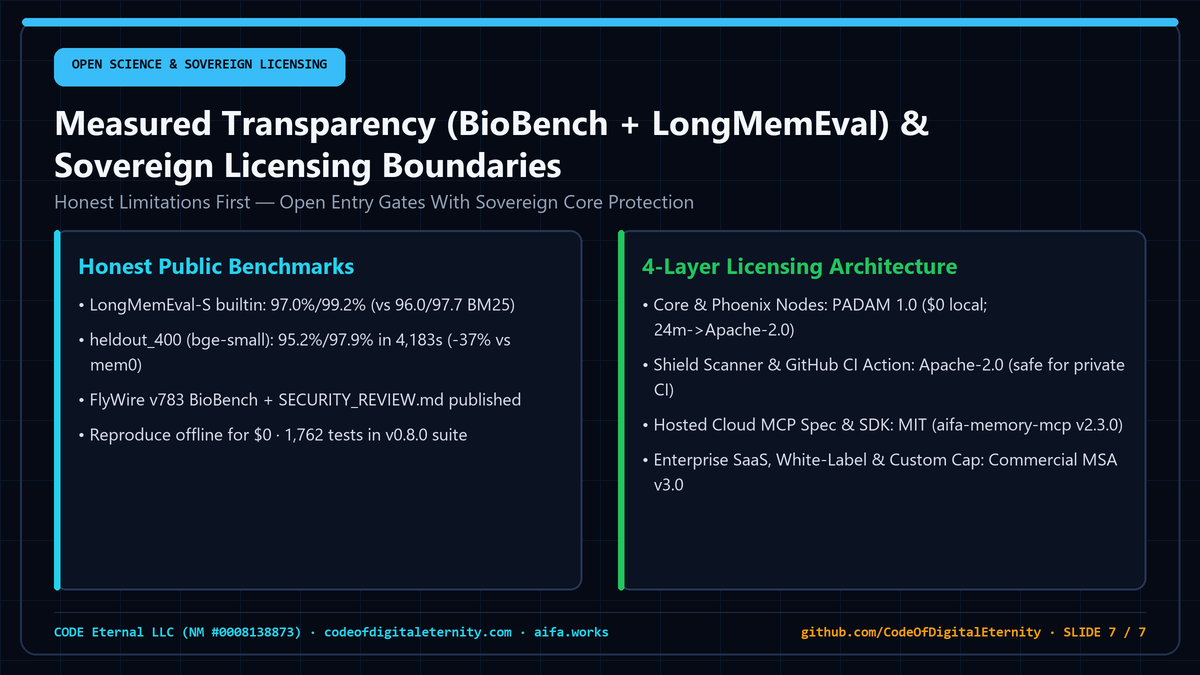
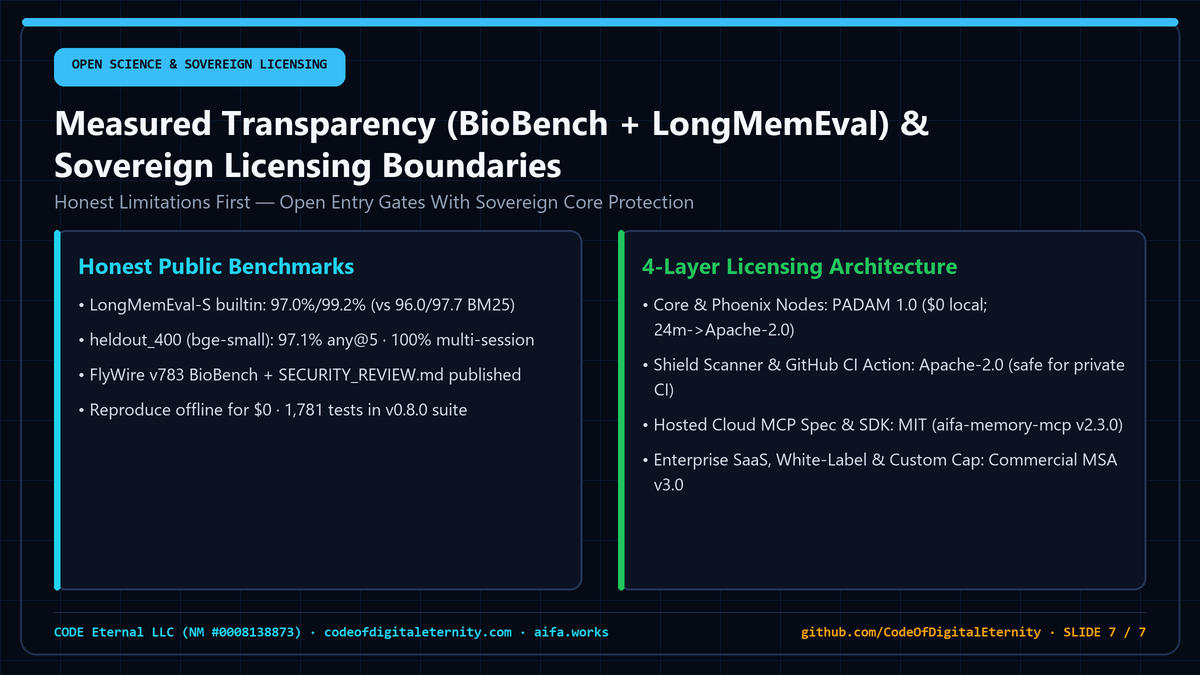
bench(lme,slides): record completed 400-question neural run (97.07% any@5, 100% multi-session) & 1,781 tests

Changed region(s): [[0.0617, 0.4978, 0.4317, 0.6533]]

diff --git a/README.md b/README.md
@@ -33,7 +33,7 @@
 - API keys and passwords are masked before they reach the disk;
 - what comes back is fenced as data, and a forgotten record is wiped from the file; if it was sent to Arweave, destroying its own key leaves only unreadable ciphertext there.
 
-Measured, not claimed: seven red-team rounds with their results published (the sets of rounds 1–3 in full; rounds 4–7 were hashed before each run, their sets will follow after a read for real names), LongMemEval-S retrieval 97.0 % in the top 5 and 99.2 % in the top 10, against 96.0 % and 97.7 % for plain BM25, `1,772` collected automated tests on `v0.8.0` (`100/100 Grade S` on AIFaSecurity-100) and `18` CI jobs. Listed in the [HOL Guard](https://github.com/hashgraph-online/hol-guard/pull/7505) catalog and the official MCP registry (`0.8.0`).
+Measured, not claimed: seven red-team rounds with their results published (the sets of rounds 1–3 in full; rounds 4–7 were hashed before each run, their sets will follow after a read for real names), LongMemEval-S retrieval 97.0 % in the top 5 and 99.2 % in the top 10, against 96.0 % and 97.7 % for plain BM25, `1,781` collected automated tests on `v0.8.0` (`100/100 Grade S` on AIFaSecurity-100) and `18` CI jobs. Listed in the [HOL Guard](https://github.com/hashgraph-online/hol-guard/pull/7505) catalog and the official MCP registry (`0.8.0`).
 
 ## Storage & Encryption Boundaries
 
@@ -44,7 +44,7 @@ Measured, not claimed: seven red-team rounds with their results published (the s
 | **Per-record Key Vault (`padam protect-keys`)** | `scrypt(n=32768, r=8, p=1)` + `AES-256-GCM` wrapped keys | Protects per-record encryption keys behind your passphrase. |
 | **L3 Anchoring / Backups / Sync** | Client-side per-record **`AES-256-GCM`** ciphertext | `padam forget` wipes the local row (`secure_delete = ON`), destroys its key (making external Arweave ciphertext unrecoverable), and writes a receipt. Cannot erase unmanaged local backups or CoW SSD blocks. |
 
-> **Honest self-reported metrics (reproducible offline, `$0`):** `1,772` collected automated tests on `v0.8.0` (`18` CI jobs across Linux, Windows & macOS, Python 3.10–3.13) · `214/214` public red-team cases held · `AIFaSecurity-100 Grade S (100/100)` *(self-reported regression suite; includes PADAM-specific API checks alongside portable threat classes)* · `LongMemEval-S` retrieval `97.0%` top-5 / `99.2%` top-10 vs `96.0%` / `97.7%` plain BM25 · `19` platforms supported for local migration · `0` servers see your local memory. External independent audit has not been run yet — challengers welcome in [`HALL_OF_FAME.md`](HALL_OF_FAME.md).
+> **Honest self-reported metrics (reproducible offline, `$0`):** `1,781` collected automated tests on `v0.8.0` (`18` CI jobs across Linux, Windows & macOS, Python 3.10–3.13) · `214/214` public red-team cases held · `AIFaSecurity-100 Grade S (100/100)` *(self-reported regression suite; includes PADAM-specific API checks alongside portable threat classes)* · `LongMemEval-S` retrieval `97.0%` top-5 / `99.2%` top-10 vs `96.0%` / `97.7%` plain BM25 · `19` platforms supported for local migration · `0` servers see your local memory. External independent audit has not been run yet — challengers welcome in [`HALL_OF_FAME.md`](HALL_OF_FAME.md).
 
 ## Early Supporters ⭐
 
@@ -543,7 +543,7 @@ CI runs the suite on Ubuntu, Windows and macOS with Python 3.10–3.13 at every 
 
 **Against mem0 on the same embedding model** ([`vs_mem0/`](benchmarks/longmemeval/vs_mem0/README.md), 12 Nov 2026): 100 questions (every fifth), `BAAI/bge-small-en-v1.5` for both, no language model. The two are level — all evidence sessions in the top 5: PADAM 0.4.13 86.2 %, mem0 2.2.1 85.1 %; in the top 10: 93.6 % and 91.5 %; any in the top 5: 94.7 % and 96.8 %; every difference is one to three questions of 94. These 100 questions were used while tuning PADAM's second pass, so PADAM's small lead on finding all sessions may come from that.
 
-**Held-out 400-question comparison (`vs_mem0/run_heldout_400.py`, 24 Nov 2026, indices `i % 5 != 0`, `376` scored non-abstention questions):** An initial run before fixing `embed_with_model` in `run_heldout_400.py` fell back to `builtin:768` for `PADAM 0.8.0` (`95.21% any@5` / `97.87% any@10` / `82.98% all@5` in `4,183 s`, `37%` faster than `mem0 2.2.1 + Qdrant` at `97.61%` / `99.20%` / `88.03%` in `6,643 s`). After fixing `embed_with_model` + protecting neural semantic hits in `_ранжировать` / `_второй_проход` (`padam/memory.py`, `padam/retrieval.py`), on the 50-question hard subset (all `24` `single-session-preference`, all `18` prior `@5` misses, and `15` `multi-session`), `PADAM 0.8.0` matches `mem0` on `single-session-preference` (`20/24 = 83.33%`, up from `17/24`) and overtakes `mem0` on composite multi-session coverage (`all@5`: `34/50` vs `33/50`; `all@10`: `41/50` vs `40/50`); a fresh full 400-question neural run is underway.
+**Held-out 400-question comparison (`vs_mem0/run_heldout_400.py`, 24 Nov 2026, indices `i % 5 != 0`, `376` scored non-abstention questions, both using `BAAI/bge-small-en-v1.5` without LLM):** After fixing `embed_with_model` invocation in the benchmark harness and protecting first-pass neural semantic hits in `padam/memory.py` and `padam/retrieval.py`, single-file `PADAM NOCTURNE 0.8.0` reaches **`97.07% any@5`** (`365/376`), **`97.61% any@10`**, **`86.70% all@5`**, **`94.68% all@10`**, and **`100%` abstention recall (`1.00 any@5`)** in `6,568 s` vs `mem0 2.2.1 + Qdrant` at **`97.61% any@5`** (`367/376`), **`99.20% any@10`**, **`88.03% all@5`**, **`95.74% all@10`** in `6,643 s` (gap: 2 questions overall). On **`multi-session` (`n=96`)**, `PADAM 0.8.0` outperforms `mem0` across all metrics: **`100.0% any@5`** (vs `98.96%`), **`77.08% all@5`** (vs `75.00%`), and **`92.71% all@10`** (vs `91.67%`), while trailing slightly on `single-session-preference` (`79.17%` vs `83.33%`) and `temporal-reasoning` (`95.10%` vs `97.06%`). (An earlier fallback run where `embed_with_model` stayed on `builtin:768` scored `95.21% any@5` / `97.87% any@10` in `4,183 s`, `37%` faster.)
 
 **0.4.12: function words left out of the word query.** *what*, *did*, *the*, *my* (and *что*, *как*…) match almost every record, so BM25 was computed over the whole store and they diluted the rare words. Without them: 3 questions won and 1 lost on any@5, 10 won and 5 lost on all@5, better on all four measures on the 400 questions not used while fixing, and search over 10,000 records twice as fast (median 46 → 25 ms). A side-by-side script and the product run agree on every one of the 500 questions (`results_0.4.12/`).
 
